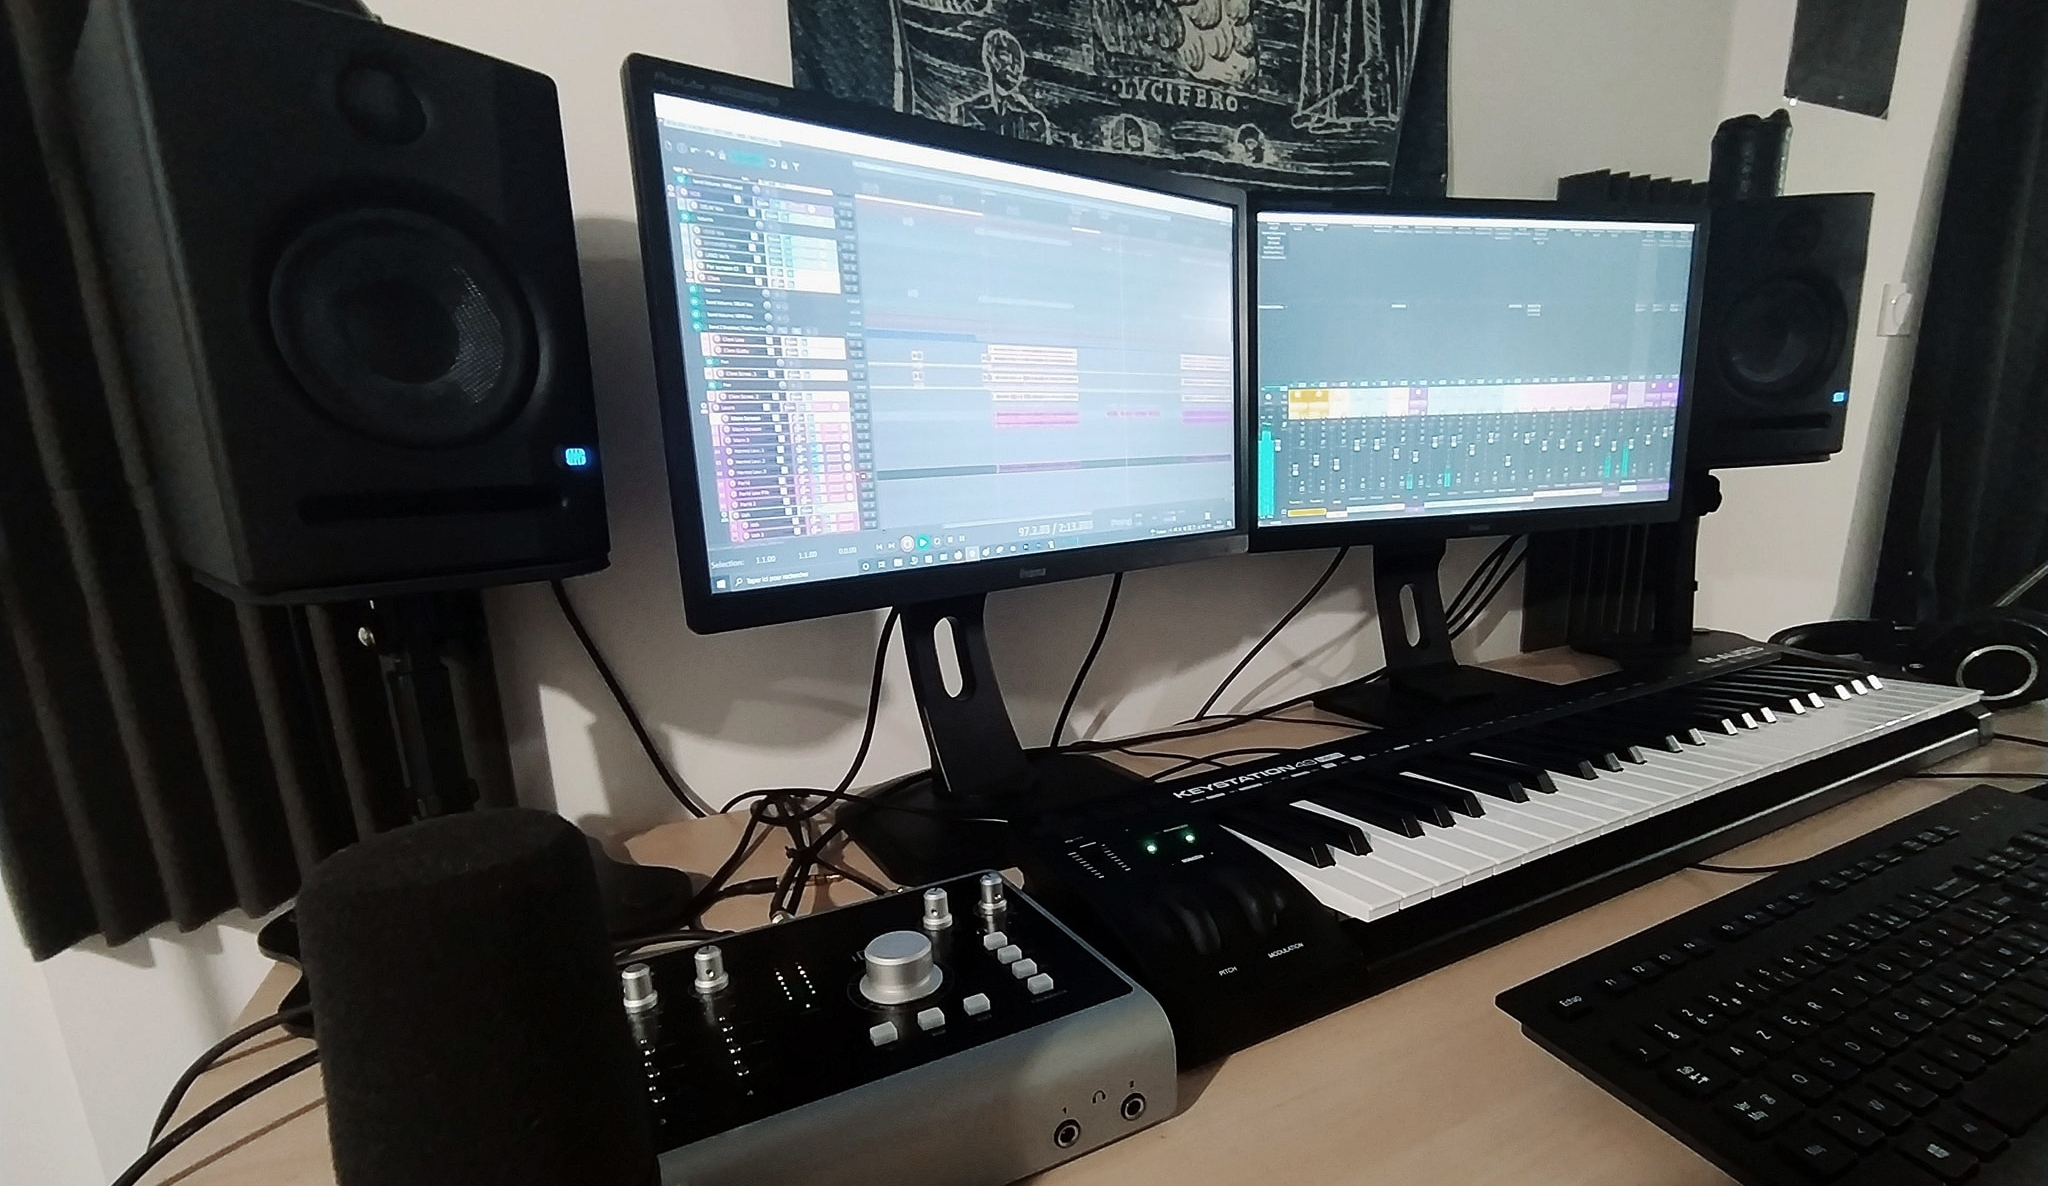
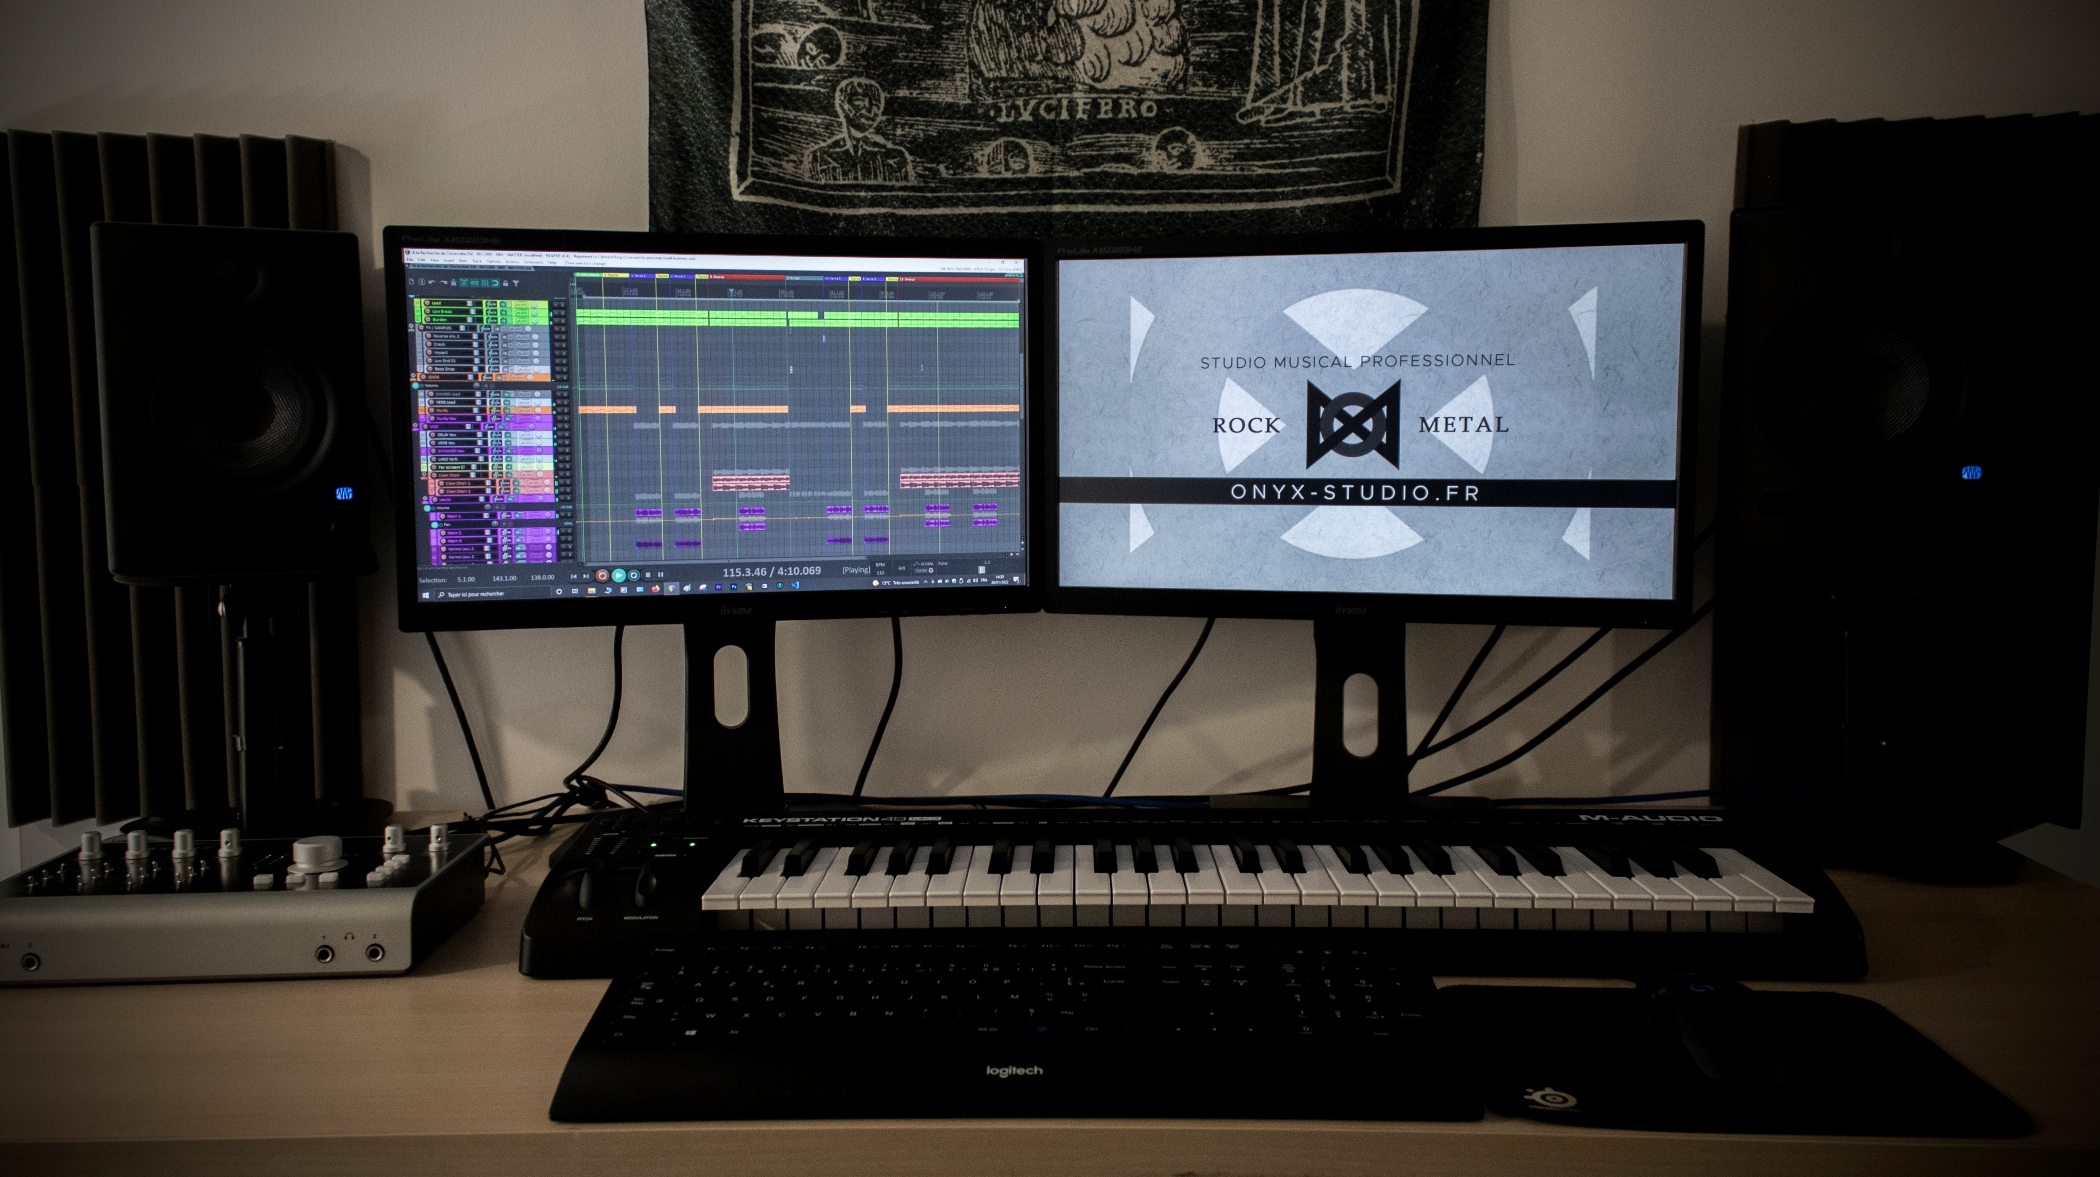
update photos and improve some layouts

diff --git a/index.html b/index.html
@@ -214,15 +214,15 @@
 
     <!-- Latest prod videos
 ================================================== -->
-    <section id='latest-prod-videos' class="s-latest-prod-videos light-gray">
+    <section id='latest-prod-videos' class="s-latest-prod-videos light-gray-bg">
         <div class="row section-header" data-aos="fade-up">
-            <div class="col-full light-gray">
+            <div class="col-full light-gray-bg">
                 <h3 class="subhead latest-prods">Dernières productions</h3>
             </div>
         </div>
         <!-- end section-header -->
         <div class="video-list">
-            <div class="iframe-container">
+            <div class="iframe-container glowing-card">
                 <iframe loading="lazy" src="https://www.youtube.com/embed/wDzBOJamy9I" frameborder="0" allow="accelerometer; autoplay; clipboard-write; encrypted-media; gyroscope; picture-in-picture" allowfullscreen srcdoc="
           <style>
             *{padding:0;margin:0;overflow:hidden}
@@ -238,7 +238,7 @@
           </a>">
         </iframe>
             </div>
-            <div class="iframe-container">
+            <div class="iframe-container glowing-card">
                 <iframe loading="lazy" src="https://www.youtube.com/embed/zqSl4bUHViY" frameborder="0" allow="accelerometer; autoplay; clipboard-write; encrypted-media; gyroscope; picture-in-picture" allowfullscreen srcdoc="
           <style>
             *{padding:0;margin:0;overflow:hidden}
@@ -254,7 +254,7 @@
           </a>">
         </iframe>
             </div>
-            <div class="iframe-container">
+            <div class="iframe-container glowing-card">
                 <iframe loading="lazy" src="https://www.youtube.com/embed/wqmqakOcyAo" frameborder="0" allow="accelerometer; autoplay; clipboard-write; encrypted-media; gyroscope; picture-in-picture" allowfullscreen srcdoc="
           <style>
             *{padding:0;margin:0;overflow:hidden}
@@ -270,7 +270,7 @@
           </a>">
         </iframe>
             </div>
-            <div class="iframe-container">
+            <div class="iframe-container glowing-card">
                 <iframe loading="lazy" src="https://www.youtube.com/embed/JVQ1rm-aHSM" frameborder="0" allow="accelerometer; autoplay; clipboard-write; encrypted-media; gyroscope; picture-in-picture" allowfullscreen srcdoc="
           <style>
             *{padding:0;margin:0;overflow:hidden}
@@ -302,15 +302,17 @@
         <!-- end section-header -->
 
         <div class="row" data-aos="fade-up">
-            <div class="col-block lead-block">
+            <div class="row blocks-list block-1-2 block-m-full">
+                <div class="col-block block-item" data-aos="fade-up">
+
                 <p class="lead">
                     Je m'appelle Clément Roig et j'ai fondé l'Onyx Studio en mai 2019. Celui-ci a pour but de mettre mon expérience et mes compétences à disposition des groupes souhaitant obtenir un résultat professionnel. Je propose différents services tels que l'enregistrement,
-                    le mixage, le réamping, la programmation de batterie virtuelle ainsi que le mastering.
+                    le mixage, le réamping, la programmation de batterie virtuelle ainsi que le mastering. J’ai très souvent travaillé sur des projets <b>rock et metal</b> et c’est donc dans ces styles-là que je pense pouvoir vous apporter une réelle plus-value.
                 </p>
-                <img class="presentation-img" src="/images/clement.jpg" alt="Clément">
-                <p class="lead">
-                    J’ai très souvent travaillé sur des projets <b>rock et metal</b> et c’est donc dans ces styles-là que je pense pouvoir vous apporter une réelle plus-value.
-                </p>
+                </div>
+                <div class="col-block block-item" data-aos="fade-up">
+                    <img class="presentation-img" src="/images/clement_mixing_2.jpg" alt="Clément mixing">
+                </div>
             </div>
         </div>
         <!-- end about-desc -->
@@ -353,7 +355,7 @@
 
     <!-- prestations
 ================================================== -->
-    <section id='prestations' class="s-dark-section light-gray">
+    <section id='prestations' class="s-dark-section light-gray-bg">
 
         <div class="row section-header" data-aos="fade-up">
             <div class="col-full">
@@ -378,12 +380,11 @@
             <div class="col-block block-item" data-aos="fade-up">
                 <div class="service-text">
                     <h3><i class="fas fa-chevron-right"></i> Enregistrement</h3>
-                    <div>
-                        <p style="z-index:10">
+                    <div class="glowing-card">
+                        <p style="z-index:0;">
                             Une bonne production démarre nécessairement par un bon enregistrement. Que ce soit pour une voix ou pour un instrument acoustique, j'apporte un grand soin quant au choix et au placement des micros utilisés, pour <b>restituer le plus fidèlement possible votre interprétation</b>.
                             Je serai également là pour vous conseiller quant à la qualité de votre prestation pour que celle-ci soit optimale.
                         </p>
-                        <img src="images/recording.jpg" alt="Enregistrement" />
                     </div>
                 </div>
             </div>
@@ -391,12 +392,11 @@
             <div class="col-block block-item" data-aos="fade-up">
                 <div class="service-text">
                     <h3><i class="fas fa-chevron-right"></i> Programmation de batterie virtuelle</h3>
-                    <div>
-                        <p style="z-index:10">
+                    <div class="glowing-card">
+                        <p style="z-index:0;">
                             Que l'on soit bien d'accord : une batterie virtuelle ne remplacera pas de sitôt un véritable batteur. Est-ce une raison pour abandonner nos chères boîtes à rythmes ? Certainement pas ! Je tâcherai de faire en sorte qu’elle sonne la plus réaliste possible.
                             Le résultat ne sera pas une simple batterie virtuelle : vous obtiendrez un <b>batteur virtuel</b>, avec toutes les nuances et le toucher nécessaire à votre musique.
                         </p>
-                        <img src="images/virtual_drums.jpg" alt="Programmation batterie" />
                     </div>
                 </div>
             </div>
@@ -407,13 +407,12 @@
             <div class="col-block block-item " data-aos="fade-up">
                 <div class="service-text">
                     <h3><i class="fas fa-chevron-right"></i> Réamping</h3>
-                    <div>
-                        <p style="z-index:10">
+                    <div class="glowing-card">
+                        <p style="z-index:0;">
                             Vous préférez me confier votre son de guitare ou de basse ? Pas de problème ! Enregistrez le signal "dry" de votre instrument et je me charge du reste. J'utilise le <a href="https://www.fractalaudio.com/fm3/">FM3 de chez Fractal Audio
                 Systems</a> en combinaison avec la technologie <a href="https://www.two-notes.com/fr/dyn-ir" target="_blank">DynIr de Two notes Audio Engineering</a> ce qui me permet de vous proposer plusieurs centaines d'amplis et d'enceintes différentes
                             afin d'obtenir le son de votre choix.
                         </p>
-                        <img src="/images/two_notes_products.jpg" alt="Produits two notes" />
                     </div>
                 </div>
             </div>
@@ -421,12 +420,11 @@
             <div class="col-block block-item" data-aos="fade-up">
                 <div class="service-text">
                     <h3><i class="fas fa-chevron-right"></i> Mixage</h3>
-                    <div>
-                        <p style="z-index:10">
+                    <div class="glowing-card">
+                        <p style="z-index:0;">
                             Lors du mixage de vos morceaux, je ferai en sorte d'<b>équilibrer</b> vos pistes entre elles et de les traiter individuellement afin d'en tirer leur <b>plein potentiel</b>. Après suggestions et selon vos envies, je donnerai
                             une profondeur supplémentaire à votre projet en ajoutant effets, automations et samples : je vous aiderai à <b>"produire" votre musique</b> en somme.
                         </p>
-                        <img src="/images/mix.jpg" alt="Mixage" />
                     </div>
                 </div>
             </div>
@@ -435,18 +433,19 @@
             <div class="col-block block-item" data-aos="fade-up">
                 <div class="service-text">
                     <h3><i class="fas fa-chevron-right"></i> Mastering</h3>
-                    <div>
-                        <p style="z-index:10">
+                    <div class="glowing-card">
+                        <p style="z-index:0;">
                             C'est durant le mastering que je vais <b>donner toute leur ampleur</b> à vos morceaux en faisant particulièrement attention à <b>conserver leur dynamique</b>. Je peaufinerai l'équilibre général de votre mix pour former un tout
                             cohérent et pertinent, en fonction de votre projet. Je peux également réaliser le <b>DDP</b> de votre album.
                         </p>
-                        <img src="/images/mastering.jpg" alt="Mastering" />
                     </div>
                 </div>
             </div>
         </div>
         <!-- end blocks-list -->
+    </section>
 
+    <section class="white-bg">
         <div class="row section-header">
             <div class="col-full">
                 <h3 class="display-1" style="margin-top:3rem;">Tarifs</h3>
@@ -505,6 +504,7 @@
                             <td><span class="price">165€</span></td>
                         </tr>
                     </table>
+                    <br>
                 </div>
 
                 <div id="Mixage" class="tabcontent">
@@ -562,12 +562,12 @@
             </div>
 
     </section>
-    <!-- end s-dark-section -->
+    <!-- end s-light-section -->
 
     <div class="full-width-3img">
-        <img src="/images/computer_candle.jpg" alt="Recording guitar" data-aos="fade-up" />
-        <img src="/images/hugo_record_guitar.jpg" alt="Recording guitar" data-aos="fade-up" />
-        <img src="/images/studio.jpg" alt="Studio desk view" data-aos="fade-up" />
+        <img src="/images/clement_mixing.jpg" alt="Clément en train de mixer" data-aos="fade-up" />
+        <img src="/images/mics.jpg" alt="Studio mics" data-aos="fade-up" />
+        <img src="/images/fm3.jpg" alt="Fractal FM3 unit" data-aos="fade-up" />
     </div>
 
 
@@ -657,7 +657,7 @@ Satya Nadella
 
     <!-- equipment
 ================================================== -->
-    <section id='equipment' class="s-dark-section light-gray">
+    <section id='equipment' class="s-dark-section light-gray-bg">
 
         <div class="row section-header" data-aos="fade-up">
             <div class="col-full">
@@ -897,8 +897,11 @@ Satya Nadella
                 <!-- Link back to Colorlib can't be removed. Template is licensed under CC BY 3.0. -->
                 </span>
                 <br>
-                <span>Site entièrement développé par mes soins | Code open source disponible sur <a
-            href="https://github.com/Clm-Roig/onyx-studio" style="color:#fff">Github</a></span>
+                <span>Site entièrement développé par mes soins | Code open source disponible sur 
+                    <a href="https://github.com/Clm-Roig/onyx-studio" style="color:#fff">Github</a>
+                </span>
+                <br>
+                <span>Crédits photo : <a href="https://laurakaczmarek.fr" target="_blank">Laura Kaczmarek</a></span>
             </div>
         </div>
 

diff --git a/css/main.css b/css/main.css
@@ -204,11 +204,7 @@ p.lead {
 }
 
 .presentation-img {
-  height: 100%;
   margin: auto;
-  margin-bottom: 1.5rem;
-  max-width: 500px;
-  width: 100%;
 }
 
 @media only screen and (max-width: 1200px) {
@@ -1220,8 +1216,12 @@ button::-moz-focus-inner, input::-moz-focus-inner {
   max-width: 800px;
 }
 
-.light-gray {
+.light-gray-bg {
   background-color: #f1f1f1;
+}
+
+.white-bg {
+  background-color: #ffffff;
 }
 
 /* ------------------------------------------------------------------- 
@@ -2280,13 +2280,30 @@ h3.latest-prods {
   justify-content: center;
 }
 
-.s-latest-prod-videos .iframe-container {
-  flex-basis: 40%;
-  margin: 1rem;
-  min-width: 300px;
-  overflow: hidden;
-  position: relative;
+.glowing-card:before, .glowing-card:after {
+  background: linear-gradient(235deg,#a53035,#222222,#333333);
+  content: '';
+  position: absolute;
+  top: -2px;
+  left: -2px;
+  right: -2px;
+  bottom: -2px;
 }
+
+.glowing-card:after {
+  z-index: -1;
+  filter: blur(4px);
+}
+
+.s-latest-prod-videos .iframe-container {
+  aspect-ratio: 16/9;
+  flex-basis: 40%;
+  justify-content: center;
+  margin: 15px;
+  position: relative;
+  z-index: 1;
+}
+
 
 .s-latest-prod-videos .iframe-container::after {
   padding-top: 56.25%;
@@ -2498,7 +2515,6 @@ h3.latest-prods {
 .blocks-list .block-item {
   display: flex;
   margin-bottom: 2rem;
-  min-height: 330px;
 }
 
 .blocks-list .block-item .service-text {
@@ -2529,23 +2545,6 @@ h3.latest-prods {
   color: #a53035;
   margin-top: 0;
   margin-bottom: 1rem;
-}
-
-.blocks-list .block-item img {
-  filter: blur(0px);
-  height: 100%;
-  opacity: 0.110;
-  position: absolute;
-  transition: 0.5s;
-  -webkit-transition: 0.5s;
-}
-
-.blocks-list .block-item img:hover {
-  filter: blur(3px);
-  transition: 0.5s;
-  transform: scale(1.1);
-  -webkit-transition: 0.5s;
-  zoom: 1.5;
 }
 
 .blocks-list .service-icon {

diff --git a/js/os_custom_scripts/tabs.js b/js/os_custom_scripts/tabs.js
@@ -8,6 +8,7 @@ const openTab = (evt, tabName) => {
     tabcontent = document.getElementsByClassName("tabcontent");
     for (i = 0; i < tabcontent.length; i++) {
         tabcontent[i].style.display = "none";
+        document.getElementById(tabName).style.opacity = 0;
     }
 
     // Get all elements with class="tablinks" and remove the class "active"
@@ -18,6 +19,9 @@ const openTab = (evt, tabName) => {
 
     // Show the current tab, and add an "active" class to the button that opened the tab
     document.getElementById(tabName).style.display = "block";
+    setTimeout(() => {
+        document.getElementById(tabName).style.opacity = 1;
+    }, 10);
     evt.currentTarget.className += " active";
 }
 

diff --git a/css/tabs.css b/css/tabs.css
@@ -40,7 +40,8 @@
 
 .tabcontent {
     display: none;
-    padding: 6px 12px;
+    padding: 0px 12px 12px 12px;
+    transition: 1s;
 }
 
 .tabcontent h3 {
